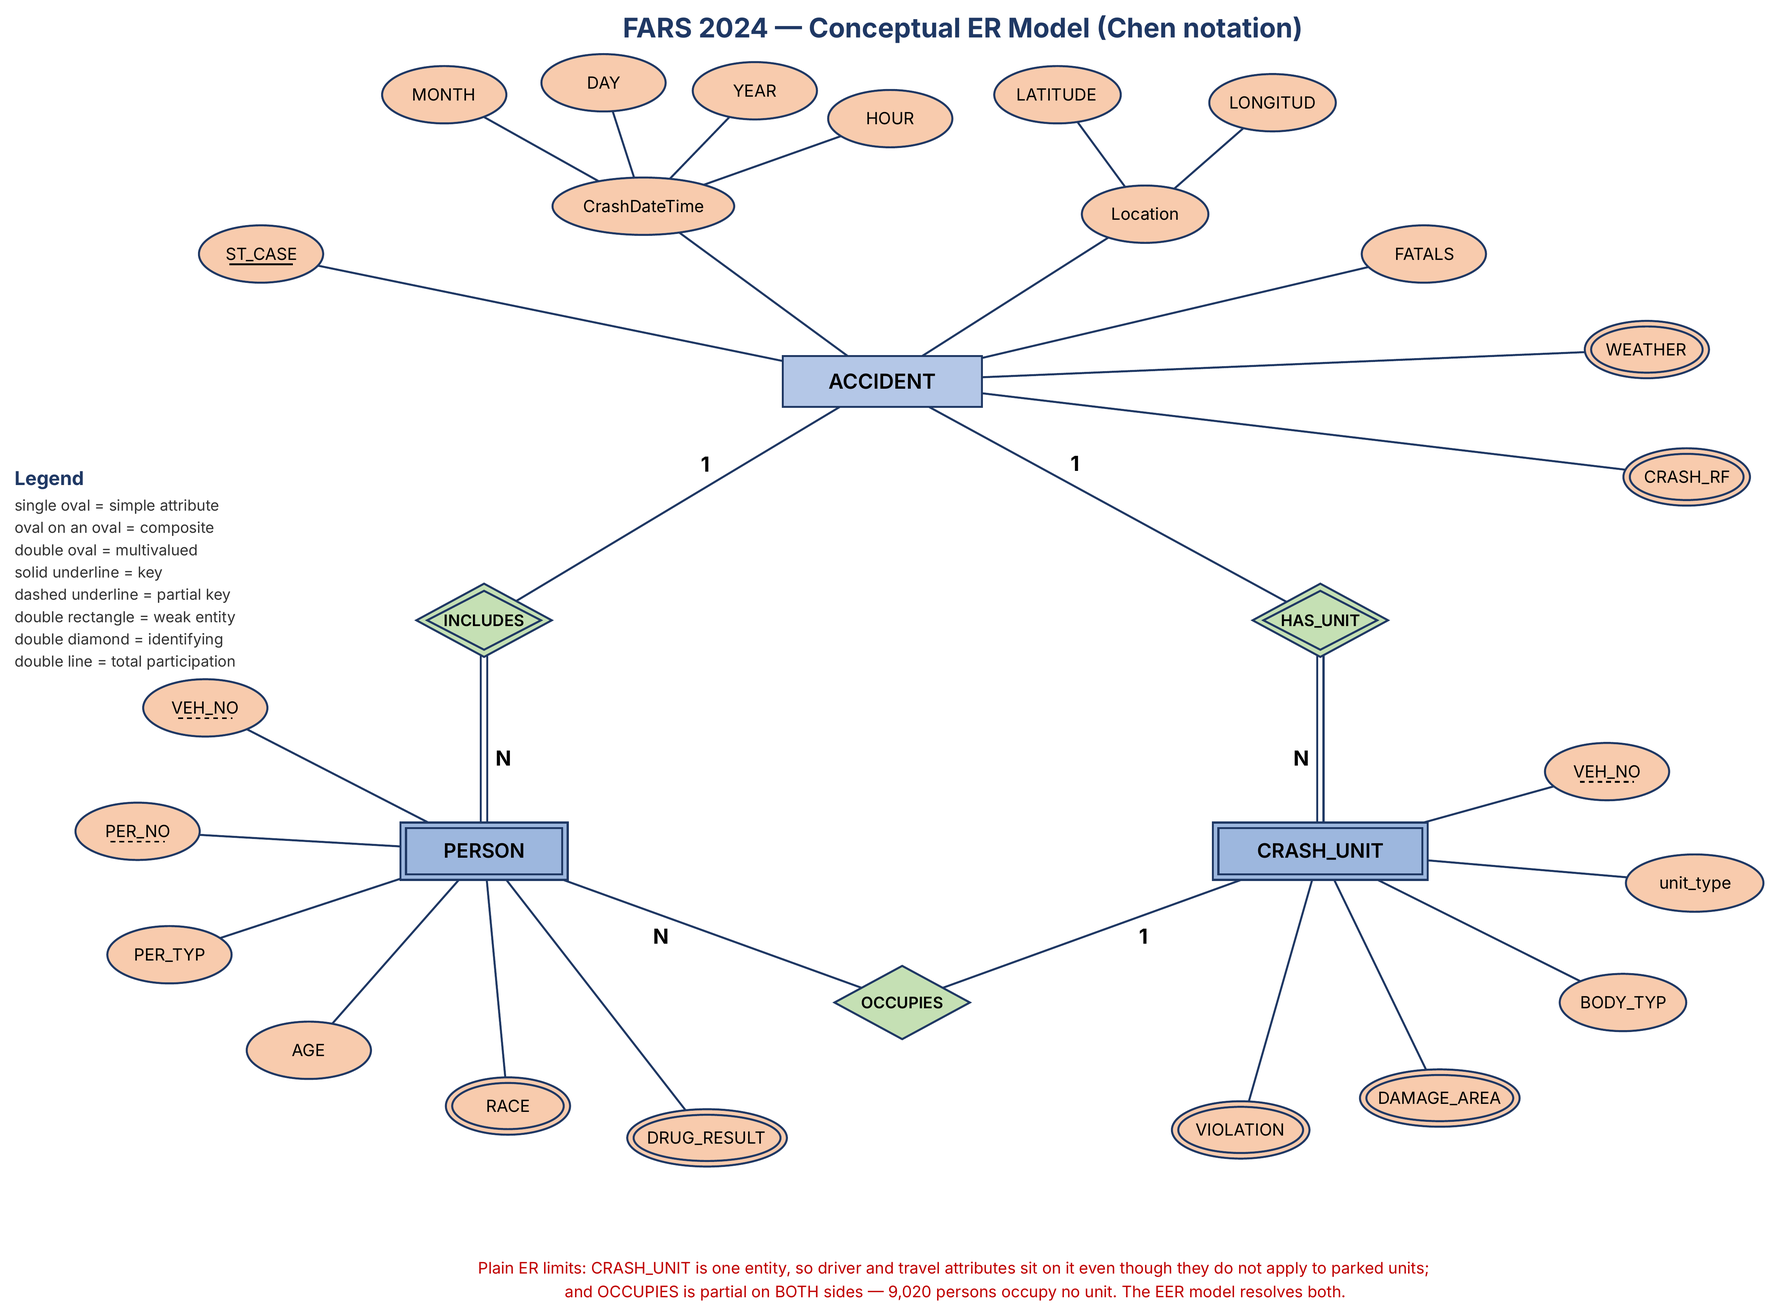
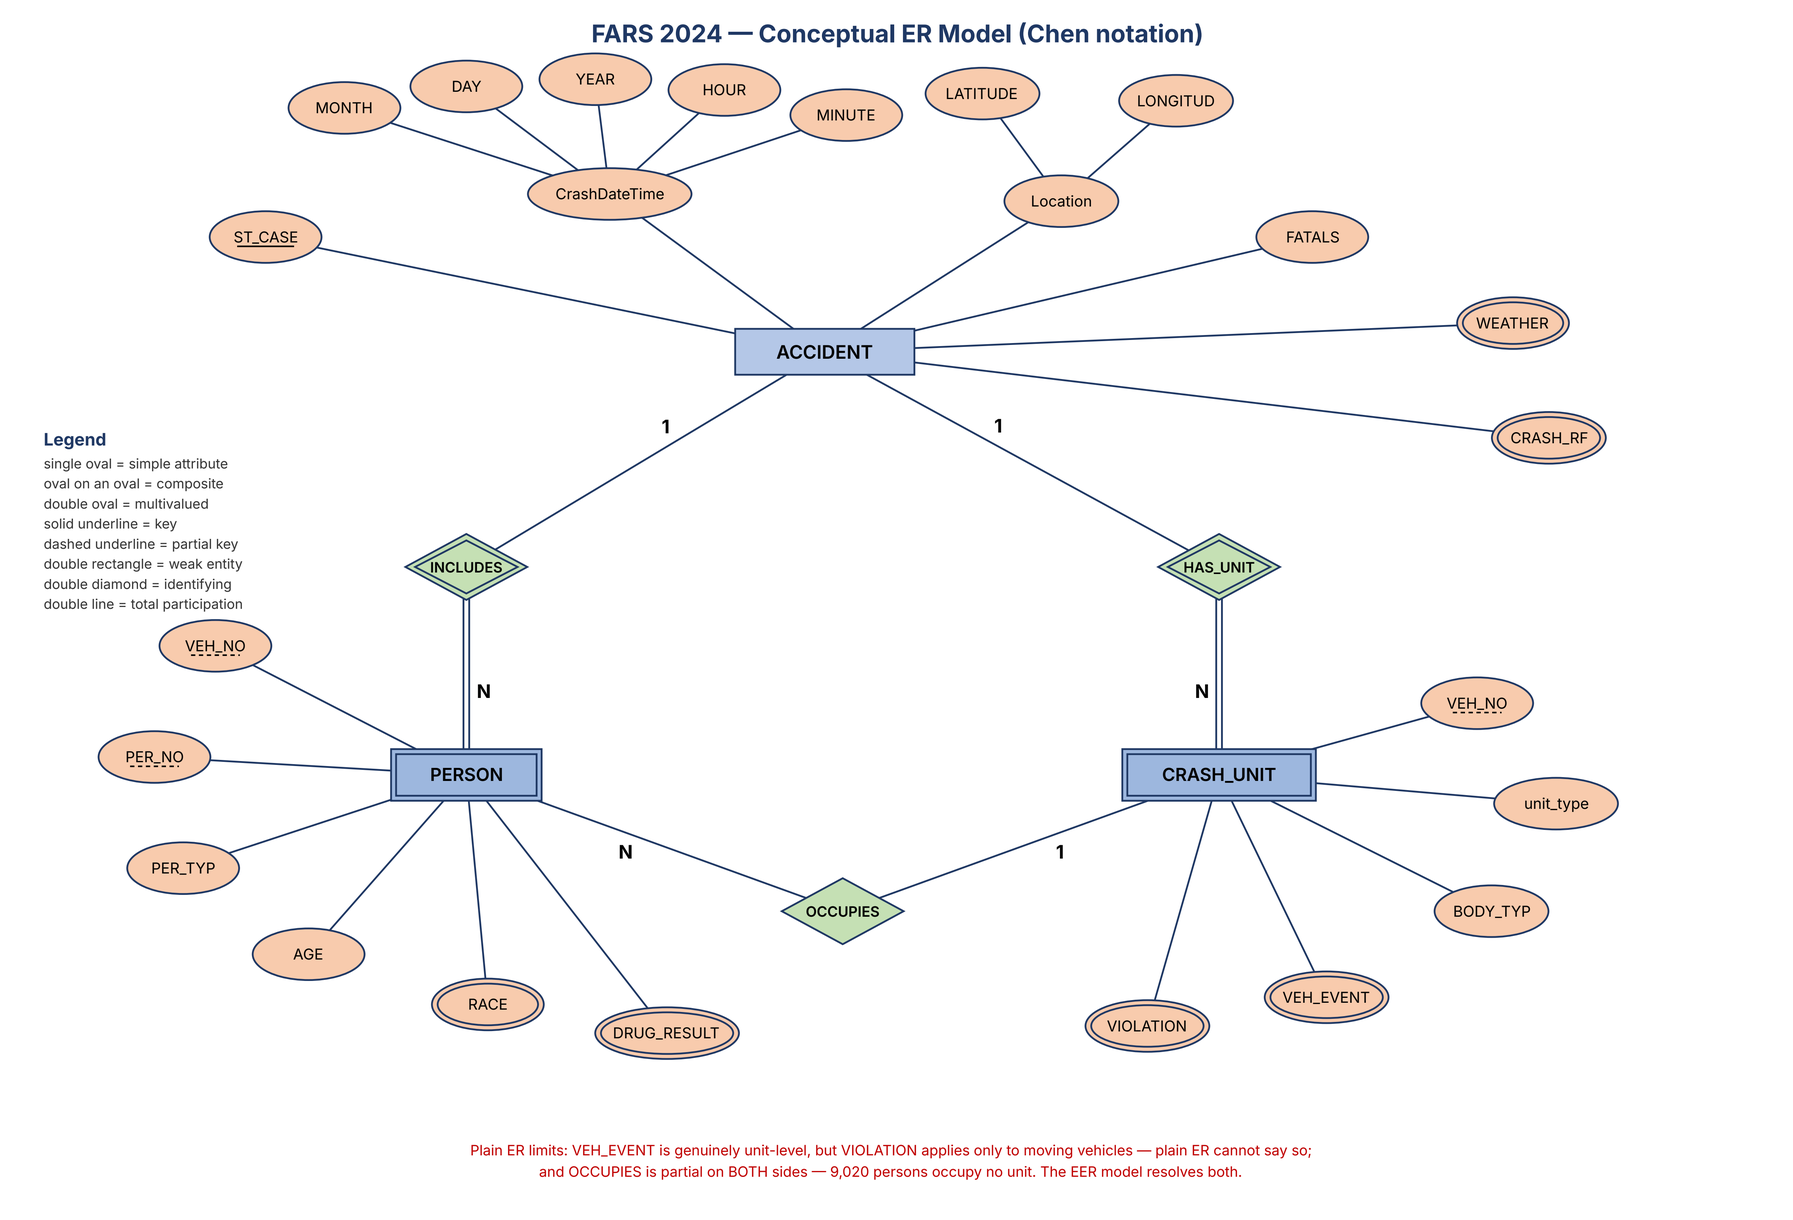
Address review: reconcile schema_design.md with implemented DDL
- PERSON specialization corrected to two subtypes
- Relationship table uses HAS_UNIT and a single OCCUPIES
- CRASH_UNIT supertype added to entity and mapping tables
- Remove NON_MOTORIST_DET; sql/schema/ no longer described as empty
- ER diagram: DAMAGE_AREA -> VEH_EVENT, add MINUTE to CrashDateTime

diff --git a/notebooks/saida/schema_design.md b/notebooks/saida/schema_design.md
@@ -4,9 +4,15 @@ Scope: initial ER/EER design and mapping to the relational model. Built on Ryan'
 cleaned data in `data/processed/`; no cleaning was redone.
 
 **Files inspected:** `README.md`, `docs/data_dictionary.md`, `data/processed/README.md`,
-and the header rows + key/join checks on all 36 CSVs in `data/processed/`.
-`sql/schema/` is **empty** (only `.gitkeep`), so there is no existing DDL to reconcile.
-Every claim below is now measured on the actual data — nothing is assumed.
+the header rows + key/join checks on all 36 CSVs in `data/processed/`, and
+`sql/schema/01_create_tables.sql` (53 tables) as implemented by the team.
+Every claim below is measured on the actual data — nothing is assumed.
+
+**Reconciliation note.** This document was first written before the DDL existed. It has
+since been revised to match the implemented schema: the `crash_unit` supertype replaces
+the earlier "two separate weak entities" design, and the `PERSON` specialization is now
+two-way rather than three-way. Section 3 records why the first version was wrong, because
+the correction is itself worth presenting.
 
 ---
 
@@ -19,8 +25,8 @@ Every claim below is now measured on the actual data — nothing is assumed.
 | `accident` = 1 row per crash, PK `ST_CASE`, unique nationally | data dictionary |
 | `vehicle` = 1 row per in-transport vehicle, PK `(ST_CASE, VEH_NO)` | data dictionary |
 | `person` = 1 row per person, PK `(ST_CASE, VEH_NO, PER_NO)` | data dictionary |
-| 9,020 `person` rows have `VEH_NO = 0` — non-motorists, match no vehicle | data dictionary |
-| `parkwork` / `pvehiclesf` (1,526 rows) use separate numbering; **none** join `vehicle` | data dictionary, checked on 2024 data |
+| 9,020 `person` rows have `VEH_NO = 0` — non-motorists, match no unit | data dictionary |
+| `parkwork` / `pvehiclesf` (1,526 rows) use their own numbering | data dictionary, checked on 2024 data |
 | `drugs` has 748 exact duplicate rows → needs a surrogate key | data dictionary |
 | County and city codes repeat across states → lookup key is `(STATE, COUNTY)` / `(STATE, CITY)` | processed README |
 | 36,297 crashes · 56,011 vehicles · 88,326 persons | processed README |
@@ -34,10 +40,11 @@ Every claim below is now measured on the actual data — nothing is assumed.
 | `(ST_CASE, VEH_NO)` unique in `vehicle` | 56,011 distinct, 0 duplicates |
 | `(ST_CASE, VEH_NO, PER_NO)` unique in `person` | 88,326 distinct, 0 duplicates |
 | `(ST_CASE, VEH_NO)` unique in `parkwork` | 1,526 distinct, 0 duplicates |
-| Crashes with **zero** vehicles | **0** → ACCIDENT total in IN_CRASH |
+| **Key overlap between `vehicle` and `parkwork`** | **0** → 56,011 + 1,526 = 57,537, a clean shared keyspace |
+| Crashes with **zero** units | **0** → ACCIDENT total in HAS_UNIT |
 | Crashes with **zero** persons | **0** → ACCIDENT total in INCLUDES |
-| Vehicles with **zero** occupant rows | **292** → VEHICLE **partial** in OCCUPIES |
-| `parkwork` rows that join `vehicle` | **0 of 1,526** → no FK, confirmed |
+| Units with **zero** occupant rows | **292** → CRASH_UNIT **partial** in OCCUPIES |
+| Occupants (`VEH_NO > 0`) with no matching unit | **0** → OCCUPANT total in OCCUPIES |
 | `drugs` exact duplicate rows | 748 → surrogate key required |
 
 ---
@@ -47,11 +54,12 @@ Every claim below is now measured on the actual data — nothing is assumed.
 | Entity | Why it is an entity | Candidate key | Kind |
 |---|---|---|---|
 | **ACCIDENT** | The crash is the unit the project asks questions about; 46 attributes of its own; every other table hangs off it | `ST_CASE` | Strong |
-| **VEHICLE** | Has 109 attributes of its own and its own child tables (`damage`, `maneuver`, `vevent`…); `VEH_NO` is **not** unique on its own — it restarts at 1 in every crash | `(ST_CASE, VEH_NO)` | **Weak** — identity borrowed from ACCIDENT, `VEH_NO` is the partial key |
+| **CRASH_UNIT** | Generalization of everything that occupies a numbered slot in a crash. `VEH_NO` restarts at 1 in every crash, and the two kinds of unit share one disjoint keyspace (verified: 0 overlap). Holds the 17 attributes that apply to **both** kinds — `BODY_TYP`, `MAKE`, `MOD_YEAR`, `ROLLOVER`, `IMPACT1`, `GVWR_FROM`/`GVWR_TO` among them | `(ST_CASE, VEH_NO)` | **Weak** on ACCIDENT — `VEH_NO` is the partial key |
+| **VEHICLE** | Subtype of CRASH_UNIT: units in transport. `TRAV_SP`, `DEATHS`, `VIN` and ~100 more of its own, plus nine child tables that reference it and not the supertype (`damage`, `violatn`, `driverrf`, `maneuver`…) | inherits `(ST_CASE, VEH_NO)` | **Subtype** |
+| **PARKED_WORK_VEH** | Subtype of CRASH_UNIT: parked or working vehicles, 1,526 rows with their own attributes (`PTYPE`…) | inherits `(ST_CASE, VEH_NO)` | **Subtype** |
 | **PERSON** | 66 attributes; the subject of injury-severity and impairment questions | `(ST_CASE, VEH_NO, PER_NO)` | **Weak** on ACCIDENT; `(VEH_NO, PER_NO)` is the composite partial key |
-| **PARKED_WORK_VEH** | Separate real-world object: parked or working vehicles, numbered independently, 1,526 rows that provably do not join `vehicle` | `(ST_CASE, VEH_NO)` | **Weak** on ACCIDENT |
 | **DRUG_TEST** | One person can have several results, and 748 rows are exact duplicates, so no natural key exists | surrogate `drug_id` | Weak on PERSON (surrogate discriminator) |
-| **CRASH_EVENT / VEHICLE_EVENT** | `cevent` (99,225) and `vevent` (120,270) are ordered event sequences, many per crash/vehicle | `(ST_CASE, EVENTNUM)` / `(ST_CASE, VEH_NO, EVENTNUM)` | Weak |
+| **CRASH_EVENT / VEHICLE_EVENT** | `cevent` (99,225) and `vevent` (120,270) are ordered event sequences, many per crash/unit | `(ST_CASE, EVENTNUM)` / `(ST_CASE, VEH_NO, EVENTNUM)` | Weak |
 | **STATE_COUNTY, STATE_CITY, CODE_LABEL** | Lookup relations from Ryan's cleaning, not conceptual entities — they exist to remove the duplicated `XNAME` columns | composite as above | Logical-model only |
 
 **Not modelled as entities.** `acc_aux`, `veh_aux`, `per_aux` are NHTSA-derived convenience
@@ -64,15 +72,19 @@ either fold them into the parent table or keep them as optional 1:1 side tables.
 
 | Relationship | Reading A → B | Reading B → A | Ratio | Participation |
 |---|---|---|---|---|
-| ACCIDENT **IN_CRASH** VEHICLE | one crash involves many in-transport vehicles | one vehicle belongs to exactly one crash | 1:N | **both total** — 0 crashes have no vehicle |
+| ACCIDENT **HAS_UNIT** CRASH_UNIT | one crash involves many numbered units | one unit belongs to exactly one crash | 1:N | **both total** — 0 crashes have no unit |
 | ACCIDENT **INCLUDES** PERSON | one crash involves many persons | one person belongs to exactly one crash | 1:N | **both total** — 0 crashes have no person |
-| ACCIDENT **PARKED_IN** PARKED_WORK_VEH | a crash may involve parked/working vehicles | each belongs to exactly one crash | 1:N | PWV **total**; ACCIDENT **partial** — only 1,526 rows across 36,297 crashes |
-| VEHICLE **OCCUPIES** IN_TRANSPORT_OCC | one vehicle carries many occupants | one occupant is in exactly one vehicle | 1:N | occupant **total**; VEHICLE **partial** — 292 vehicles have no occupant row |
-| PARKED_WORK_VEH **OCCUPIES** PARKED_VEH_OCC | a parked vehicle may have occupants | each belongs to one parked vehicle | 1:N | occupant **total**; parked vehicle **partial** |
+| OCCUPANT **OCCUPIES** CRASH_UNIT | one unit carries many occupants | one occupant is in exactly one unit | N:1 | OCCUPANT **total** (0 orphans); CRASH_UNIT **partial** — 292 units carry nobody |
 | PERSON **TESTED** DRUG_TEST | one person may have many drug results | each result belongs to one person | 1:N | DRUG_TEST total; PERSON partial (128,399 results vs 88,326 persons, not all tested) |
 
-The ACCIDENT–PARKED_WORK_VEH participation is the clearest evidence-backed *partial*
-in the model: 1,526 rows cannot cover 36,297 crashes.
+Both identifying relationships (HAS_UNIT, INCLUDES) are double diamonds; OCCUPIES is an
+ordinary relationship, since CRASH_UNIT does not supply PERSON's identity — ACCIDENT does.
+
+**OCCUPIES is deliberately not enforced as a foreign key.** `VEH_NO = 0` encodes
+"no unit" rather than NULL, so an FK from `person` would be violated by all 9,020
+non-motorist rows. Making it enforceable would mean a 0 → NULL conversion touching the
+DDL, the loader and every query. The relationship is real and the diagram shows it; the
+constraint is left to the application layer.
 
 ---
 
@@ -110,12 +122,27 @@ multivalued, not a 1:1 extension:
 | `race` | person | 5 | 163 |
 | `nmcrash` | person (non-motorist) | 6 | 3,199 |
 | `personrf` | person | 2 | 17 |
-| `damage` (damaged areas) | vehicle | 14 | 32,296 |
-| `violatn` (violations) | vehicle | 13 | 2,074 |
-| `driverrf` | vehicle | 9 | 5,009 |
-| `factor`, `drimpair`, `vision`, `distract`, `maneuver` | vehicle | 2–6 | 7–168 |
-| `cevent` (event sequence) | crash | 22 | 23,296 |
+| `damage` (damaged areas) | **vehicle** only | 14 | 32,296 |
+| `violatn` (violations) | **vehicle** only | 13 | 2,074 |
+| `driverrf` | **vehicle** only | 9 | 5,009 |
+| `factor`, `drimpair`, `vision`, `distract`, `maneuver` | **vehicle** only | 2–6 | 7–168 |
+| `vevent` (unit event sequence) | **unit** | — | the only child table that FKs `crash_unit` |
+| `cevent` (crash event sequence) | crash | 22 | 23,296 |
 | `crashrf`, `weather` | crash | 3–4 | 254–391 |
+
+**The child tables sit at mixed grains, and that is the second reason CRASH_UNIT exists
+(design note D5 in the DDL).** Checked against `01_create_tables.sql`: `vevent` is the
+**only** child table whose foreign key targets `crash_unit` — it records what happened to
+a unit, which is meaningful whether that unit was moving or parked. Everything else at
+unit grain (`damage`, `violatn`, `driverrf`, `distract`, `drimpair`, `maneuver`, `vision`,
+`factor`, `veh_aux`) references `vehicle`, because each describes something a parked
+vehicle cannot do.
+
+That split is the evidence for the supertype. A single flat "vehicle" entity would have
+forced driver-only attributes onto the 1,526 parked rows where they are meaningless. The
+plain-ER diagram shows both cases side by side on CRASH_UNIT — `VEH_EVENT`, which belongs
+there, and `VIOLATION`, which does not — and its caption names the difference. Resolving
+it is precisely what the EER specialization buys.
 
 In Chen notation these are **double ovals** on their parent entity. In the relational
 model each becomes its own relation keyed by *(parent key + sequence or value)* —
@@ -128,33 +155,61 @@ I note them rather than restructure, since they sit outside the core query quest
 
 ---
 
-## 3. EER: is specialization genuinely justified?
+## 3. EER: are the specializations genuinely justified?
 
-**Yes — one specialization, and the data forces it.**
+**Yes — two of them, and the data forces both.**
 
-`PERSON` specializes **three** ways, attribute-defined on `PER_TYP`:
+### 3.1 CRASH_UNIT → VEHICLE | PARKED_WORK_VEH
 
-| Subtype | `PER_TYP` codes | Rows | `VEH_NO` points to |
+Attribute-defined on `unit_type`.
+
+| Subtype | `unit_type` | Rows | Subtype-only attributes |
 |---|---|---|---|
-| IN_TRANSPORT_OCC | 1 driver, 2 passenger, 9 unknown occupant | 78,880 | `vehicle` |
-| PARKED_VEH_OCC | 3 occupant of vehicle not in-transport | 426 | `parkwork` |
-| NON_MOTORIST | 4, 5 pedestrian, 6 bicyclist, 7, 8, 10 | 9,020 | nothing (`VEH_NO = 0`) |
+| VEHICLE | `'V'` | 56,011 | `TRAV_SP`, driver and travel attributes, driver-only child tables |
+| PARKED_WORK_VEH | `'P'` | 1,526 | `PTYPE` |
+
+- **Disjoint (d)** — one `unit_type` value per row.
+- **Total** — 56,011 + 1,526 = 57,537, the whole of `crash_unit`.
+- **Shared key is sound** — the `(ST_CASE, VEH_NO)` key sets are **disjoint: 0 overlap**.
+
+### 3.2 PERSON → OCCUPANT | NON_MOTORIST
+
+Attribute-defined on `PER_TYP`.
+
+| Subtype | `PER_TYP` codes | Rows | `VEH_NO` |
+|---|---|---|---|
+| OCCUPANT | 1 driver, 2 passenger, 3 occupant of non-transport vehicle, 9 unknown occupant | 79,306 | > 0, matches a `crash_unit` row |
+| NON_MOTORIST | 4, 5 pedestrian, 6 bicyclist, 7, 8, 10 | 9,020 | `0` — no unit |
 
 - **Disjoint (d)** — `PER_TYP` holds one value per row.
-- **Total** — the three groups sum to 88,326, the full table. Zero rows unclassified.
-- **Inherited key** — all three keep `(ST_CASE, VEH_NO, PER_NO)`; none has a key of its own.
+- **Total** — 79,306 + 9,020 = 88,326, the full table. Zero rows unclassified.
+- **Inherited key** — both keep `(ST_CASE, VEH_NO, PER_NO)`; neither has a key of its own.
+- **Zero orphans** — every one of the 79,306 occupants matches a `crash_unit` row.
 
-**Correction worth presenting.** My first draft split only on `VEH_NO = 0`, giving a
-binary MOTORIST / NON_MOTORIST. Checking the data broke it: **426 person rows have
-`VEH_NO > 0` but match no `vehicle` row**. All 426 are `PER_TYP = 3`, occupants of
-*parked* vehicles, and all 426 join `parkwork` instead. A binary split would have put
-them in MOTORIST and the FK to `VEHICLE` would have rejected every one.
+### 3.3 Two corrections worth presenting
 
-**Why this is not cosmetic.** `PERSON.VEH_NO` is a *polymorphic* reference: depending on
-`PER_TYP` it points to `vehicle`, to `parkwork`, or to nothing. No single foreign key can
-express that. The specialization puts each FK where it is valid — IN_TRANSPORT_OCC →
-`VEHICLE`, PARKED_VEH_OCC → `PARKED_WORK_VEH`, NON_MOTORIST → no vehicle FK at all —
-while all three keep their FK to `ACCIDENT`.
+Both of my first-draft design decisions were wrong, and the data is what showed it.
+
+**First error — a binary split on `VEH_NO = 0`.** That gave MOTORIST / NON_MOTORIST, and
+it broke immediately: **426 person rows have `VEH_NO > 0` but match no `vehicle` row**.
+All 426 are `PER_TYP = 3`, occupants of *parked* vehicles, and all 426 join `parkwork`.
+A binary split would have put them in MOTORIST and an FK to `VEHICLE` would have rejected
+every one. I corrected this to a three-way split: IN_TRANSPORT_OCC / PARKED_VEH_OCC /
+NON_MOTORIST, on the reasoning that `PERSON.VEH_NO` was *polymorphic* — pointing at
+`vehicle`, at `parkwork`, or at nothing depending on `PER_TYP`.
+
+**Second error — rejecting the supertype.** I argued `PARKED_WORK_VEH` should *not* be a
+sibling subtype of `VEHICLE` under a shared supertype, on the grounds that their
+independent numbering would collide. Checking the data disproves it: the
+`(ST_CASE, VEH_NO)` key sets are **disjoint** — 56,011 + 1,526 = 57,537, zero overlap.
+The `VEH_NO` *ranges* overlap (1–15 vs 1–10), which is what misled me; the *pairs* never
+do. The `crash_unit` supertype in the implemented schema is sound.
+
+**And the first correction then collapses back.** Once `crash_unit` exists, `VEH_NO` is
+no longer polymorphic: all 79,306 occupants point at exactly one table. The three-way
+`PERSON` split was solving a problem the supertype removes, so it simplifies to two
+subtypes. The 426 parked-vehicle occupants are ordinary OCCUPANTs whose unit happens to
+have `unit_type = 'P'`.
 
 The physical layout agrees. All six non-motorist child tables (`pbtype`, `safetyeq`,
 `nmcrash`, `nmdistract`, `nmimpair`, `nmprior`) contain **only** persons from the
@@ -163,15 +218,7 @@ NON_MOTORIST subtype — I checked each: zero rows fall outside it.
 **Weak entities are also genuine**, not decoration: `VEH_NO` and `PER_NO` restart inside
 every crash, so neither identifies anything on its own.
 
-**A generalization I initially rejected, wrongly.** I first argued `PARKED_WORK_VEH`
-should not be a sibling subtype of `VEHICLE` under a shared supertype, on the grounds
-that their independent numbering would collide. Checking the data disproves that: the
-`(ST_CASE, VEH_NO)` key sets are disjoint — 56,011 + 1,526 = 57,537, zero overlap — so
-the `crash_unit` supertype in the final schema is sound. The `VEH_NO` *ranges* overlap
-(1–15 vs 1–10), which is what misled me; the *pairs* never do.
-
-
-**What would justify more EER.** A second specialization of `PERSON` into DRIVER vs
+**What would justify more EER.** A further specialization of OCCUPANT into DRIVER vs
 PASSENGER is tempting (`PER_TYP` encodes it), but it adds nothing unless we attach
 driver-only child tables (`drimpair`, `distract`, `violatn`) to it — worth doing for the
 final project, not for the mid-presentation. Adding other FARS years would also justify
@@ -183,12 +230,17 @@ a `CRASH_YEAR` dimension; with 2024 only, `YEAR` is a constant and carries no in
 
 | EER construct | Relational result |
 |---|---|
-| Strong entity ACCIDENT | `ACCIDENT(ST_CASE PK, …)` |
-| Weak entity + identifying relationship | owner PK + partial key as composite PK, owner PK also FK → `VEHICLE(ST_CASE, VEH_NO)` |
-| Specialization (disjoint, total, attribute-defined) | **single-table** approach: keep one `PERSON` table, with `VEH_NO` as the discriminator, plus `NON_MOTORIST_DET` for the subtype-only attributes. Avoids splitting 88,326 rows across two tables that every query would have to UNION. |
+| Strong entity ACCIDENT | `accident(ST_CASE PK, …)` |
+| Weak entity + identifying relationship | owner PK + partial key as composite PK, owner PK also FK → `crash_unit(ST_CASE, VEH_NO)`, `person(ST_CASE, VEH_NO, PER_NO)` |
+| **Specialization CRASH_UNIT (disjoint, total, attribute-defined)** | **multi-table**: supertype `crash_unit(ST_CASE, VEH_NO, unit_type, …17 shared attributes)` with `CHECK (unit_type IN ('V','P'))`; subtypes `vehicle` and `parkwork` each FK `(ST_CASE, VEH_NO)` → `crash_unit`. Shared attributes live once on the supertype; subtype-only attributes live on their own table; child tables attach at whichever level they are valid. |
+| **Specialization PERSON (disjoint, total, attribute-defined)** | **single-table**: one `person` table with `PER_TYP` as the discriminator. Splitting 88,326 rows across two tables would force a UNION into every query, and the subtypes differ by which *child tables* apply, not by their own columns. |
 | Entity with no natural key | surrogate `drug_id AUTO_INCREMENT` on `DRUG_TEST` |
 | Multivalued / repeating groups (`cevent`, `vevent`, `drugs`) | separate relations keyed by parent + sequence number |
 | Code/label pairs | lookup relations; `CODE_LABEL(column, code)` is the generic one |
+
+Note the two specializations map **differently on purpose**: CRASH_UNIT gets separate
+subtype tables because the subtypes carry genuinely different columns, while PERSON stays
+as one table because its subtypes differ only in which child tables reference them.
 
 Normalization sits with whoever owns that section, but the design is already in 3NF at
 the core: every non-key attribute depends on the whole composite key, and the `XNAME`
@@ -199,14 +251,14 @@ cleaning.
 
 ## 5. Deliverables
 
-| File | Put it in | Purpose |
+| File | Location | Purpose |
 |---|---|---|
-| `fars_core_eer.png` | `docs/erd/` | slide visual (Chen/EER notation, with legend) |
-| `fars_core_eer.svg` | `docs/erd/` | vector version |
-| `fars_erd.mmd` | `docs/erd/` | **editable** Mermaid source; renders natively on GitHub |
-| `verify_design_assumptions.sql` | `sql/queries/` | 10 checks that confirm every assumption above |
-| `schema_design.md` | `docs/` | this document |
+| `fars_core_eer.png` / `.svg` | `notebooks/saida/` | EER diagram — both specializations, Chen notation with legend |
+| `fars_core_er.png` / `.svg` | `notebooks/saida/` | plain-ER diagram, kept to show what EER buys us |
+| `fars_erd.mmd` | `notebooks/saida/` | editable Mermaid source; renders natively on GitHub |
+| `verify_design_assumptions.sql` | `sql/queries/` | 13 checks that confirm every number above |
+| `schema_design.md` | `notebooks/saida/` | this document |
 
-**Status:** every structural claim is measured, not assumed. The remaining work is the
-DDL itself (`sql/schema/`), data types (everything is text in `data/processed/`), and the
-NULL-vs-empty-string decision for FARS unknown codes.
+**Status:** every structural claim is measured against the implemented schema. Remaining
+open items are the NULL-vs-empty-string decision for FARS unknown codes, and whether
+`docs/erd/` or `notebooks/saida/` is the agreed home for the diagrams.
